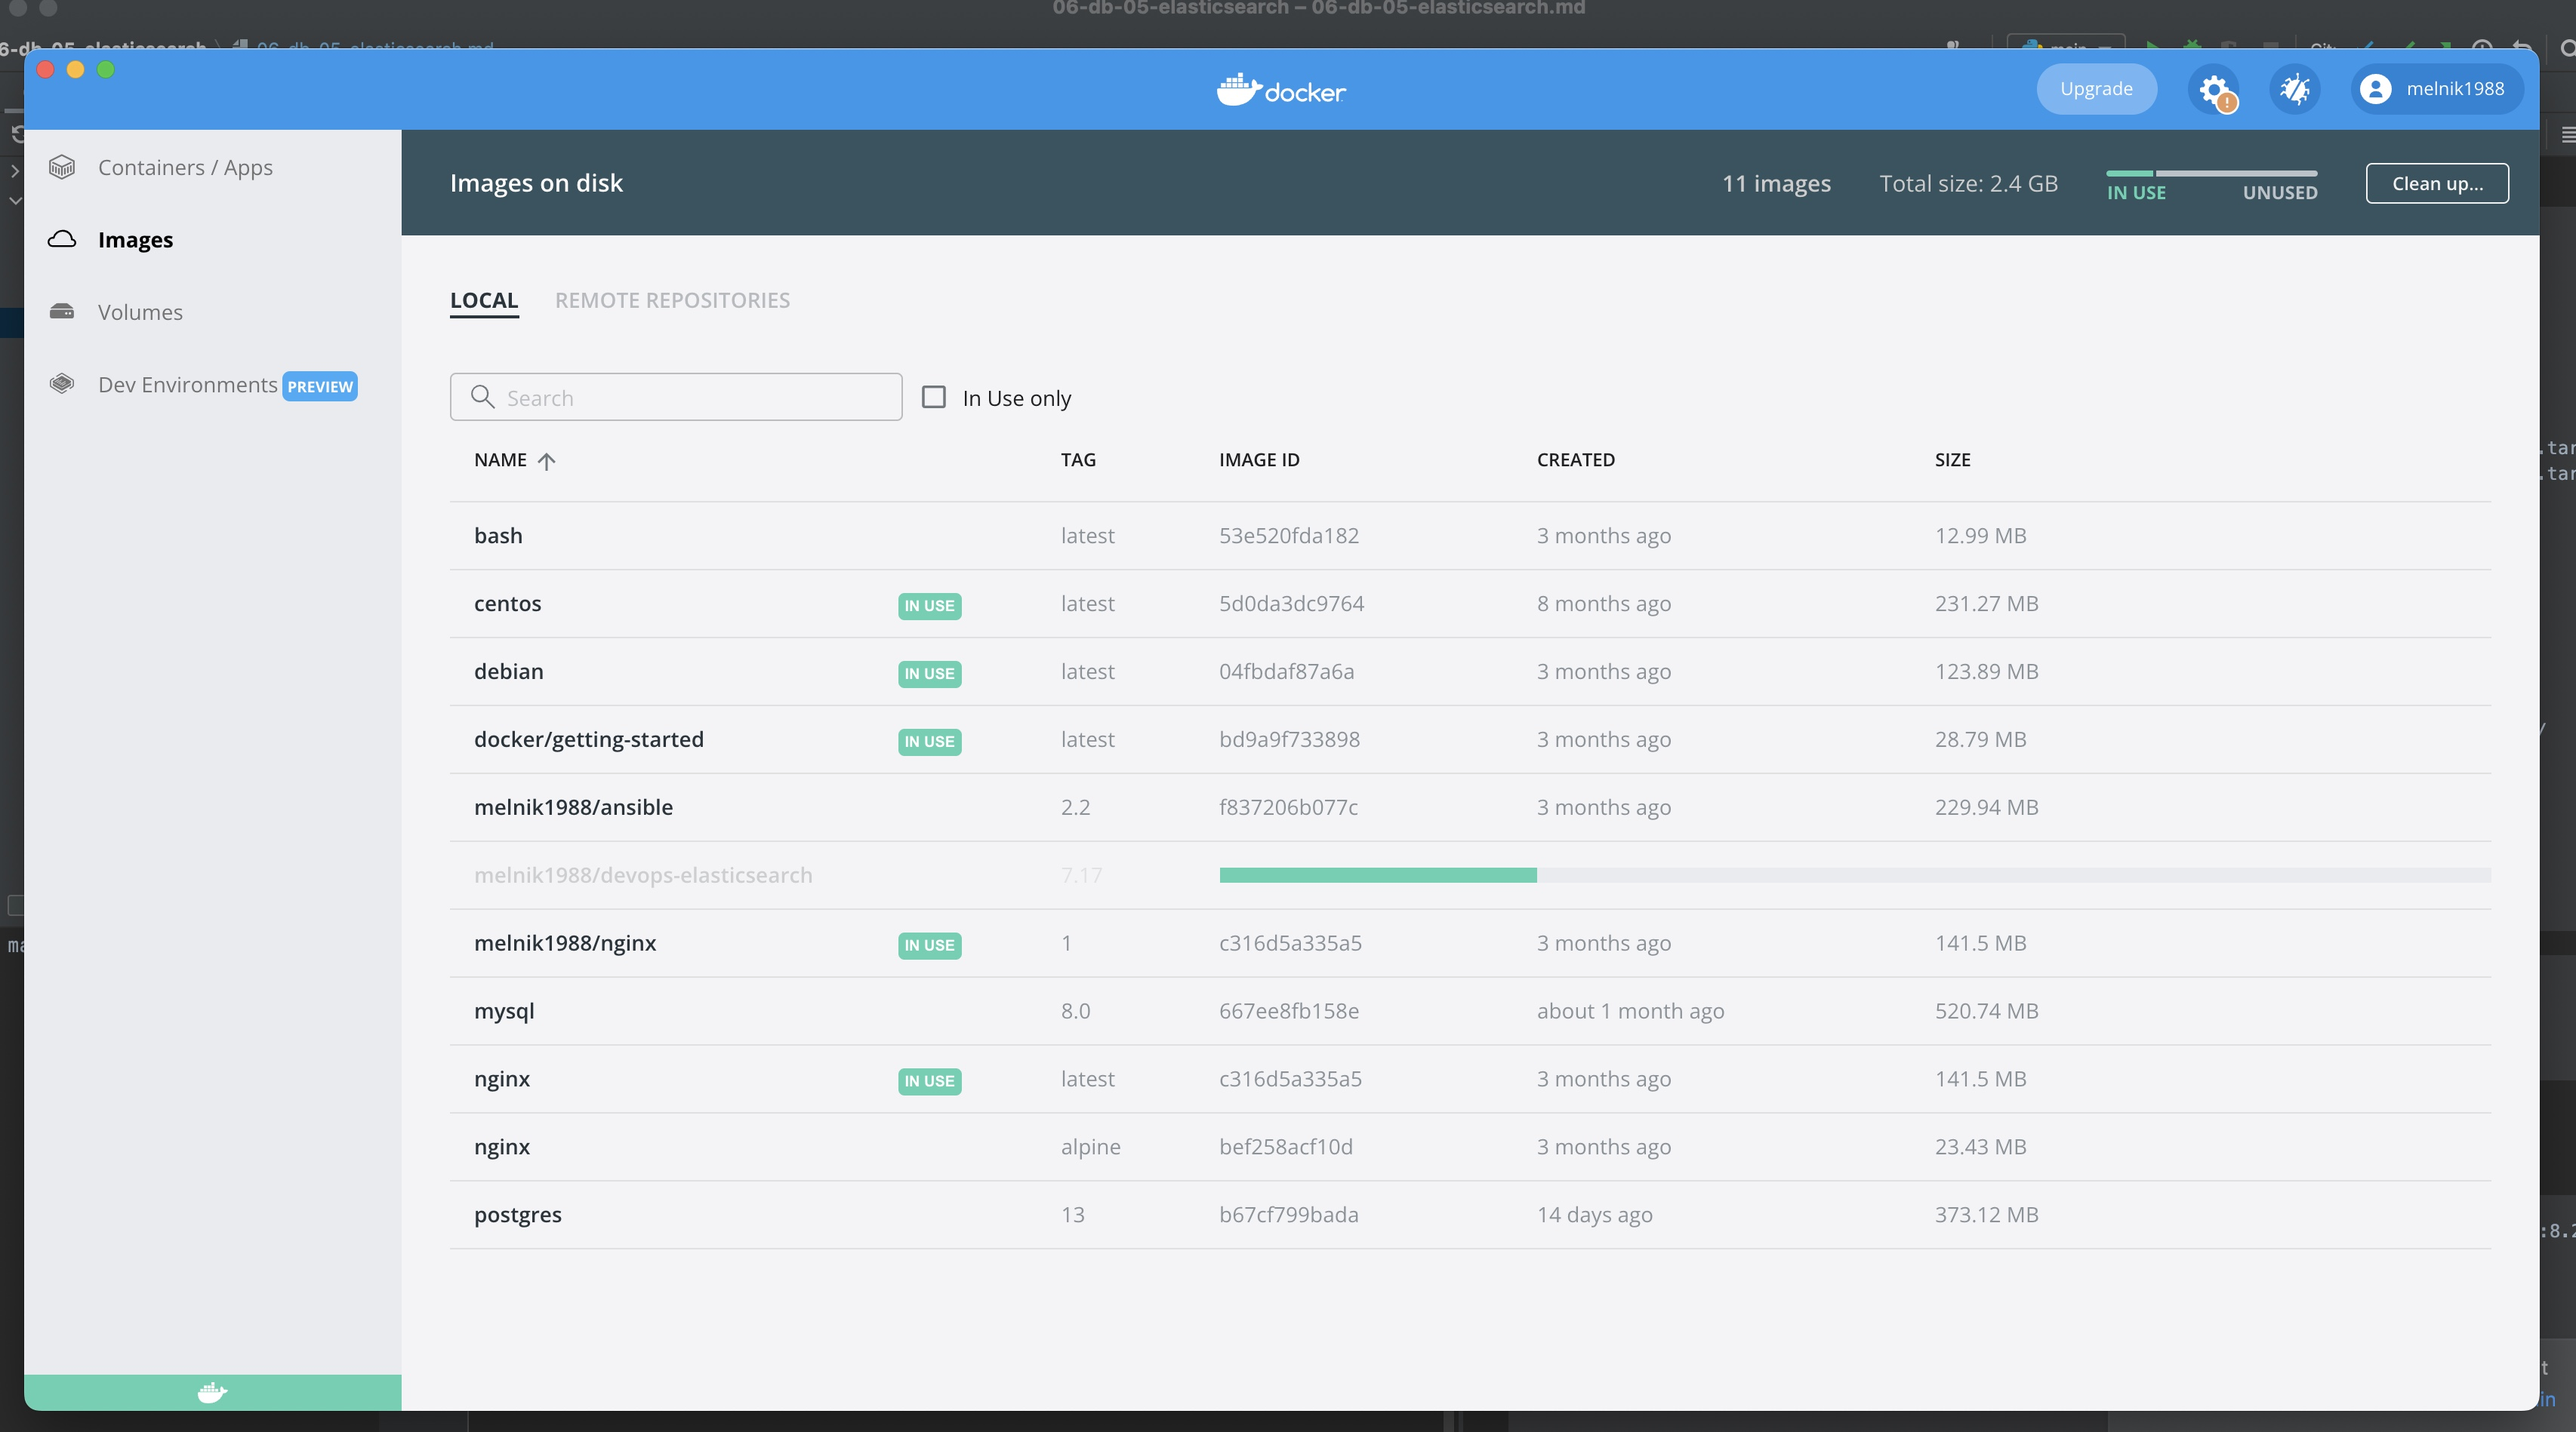
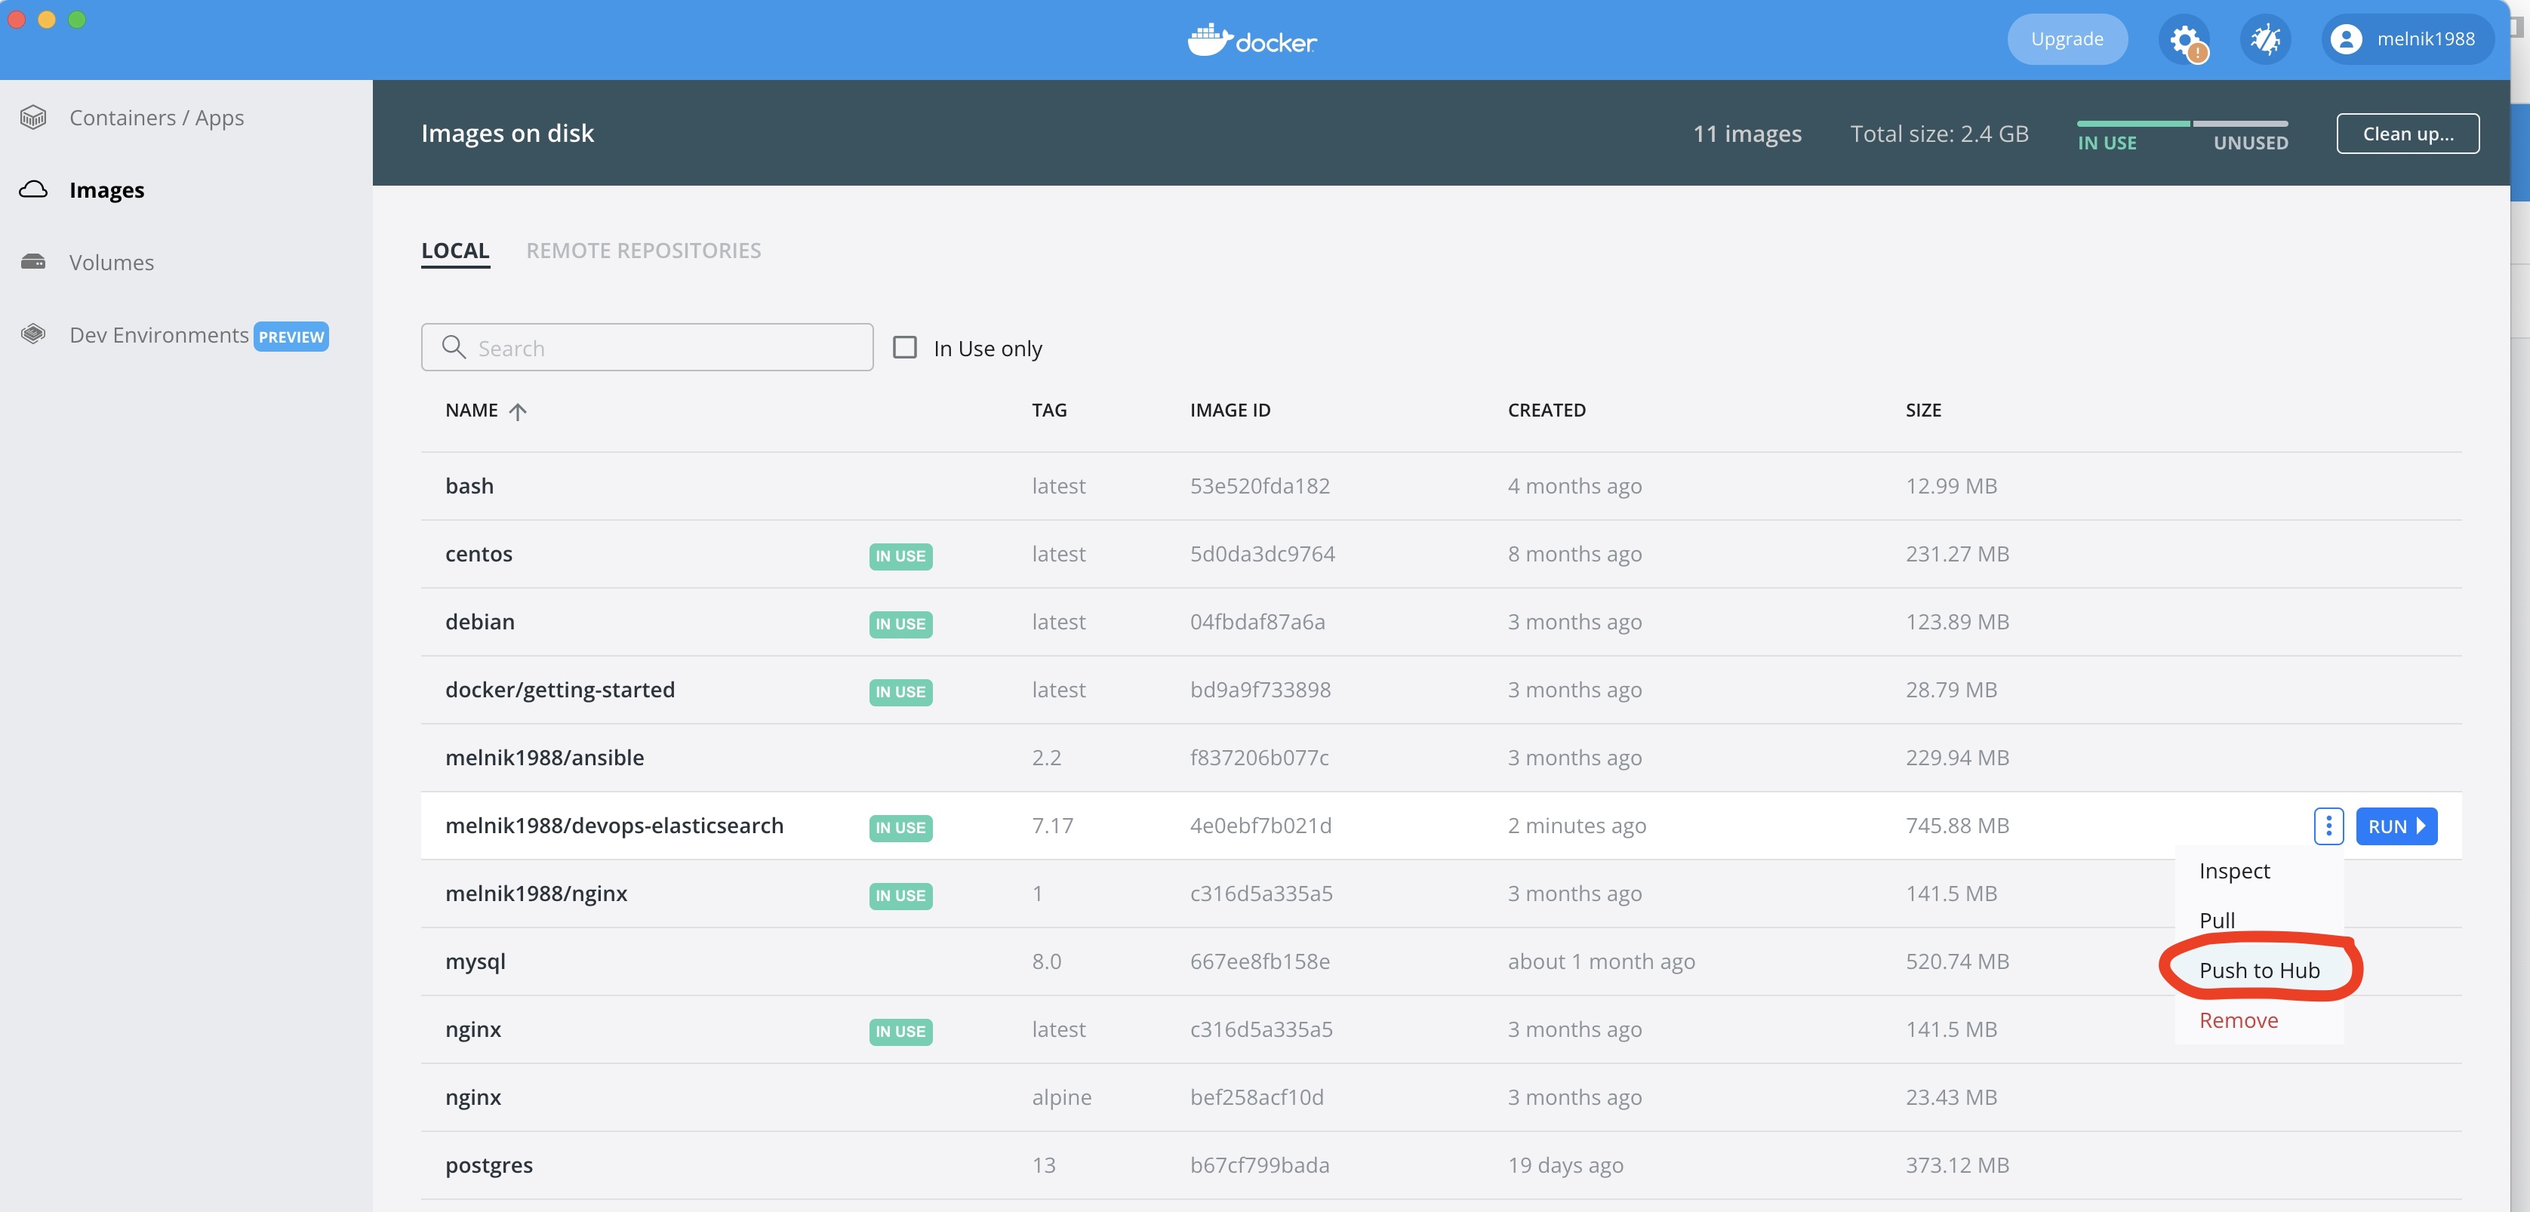
master

diff --git a/06-db-05-elasticsearch.md b/06-db-05-elasticsearch.md
@@ -34,18 +34,20 @@ CMD ["sh", "-c", "${ES_HOME}/bin/elasticsearch"]
 ```
 ```bash
 docker build . -t melnik1988/devops-elasticsearch:7.17
-Push to Hub
-
-docker push melnik1988/devops-elasticsearch:7.17
 ```
+Push to Hub
+![](https://github.com/melnik-evgeniy/06-db-05-elasticsearch/blob/831196642b149009e163cefd49c345573078af68/1.jpg?raw=true)
+
 - ссылку на образ в репозитории dockerhub
-https://hub.docker.com/repository/docker/melnik1988/
+https://hub.docker.com/repository/docker/melnik1988/devops-elasticsearch
 - ответ `elasticsearch` на запрос пути `/` в json виде
 ```bash
-$ docker run --rm -d --name elastic -p 9200:9200 -p 9300:9300 melnik1988/devops-elasticsearch:8.2.0
+$ docker run --rm -d --name elastic -p 9200:9200 -p 9300:9300 melnik1988/devops-elasticsearch:7.17
 $ docker ps
+```
+![](https://github.com/melnik-evgeniy/06-db-05-elasticsearch/blob/831196642b149009e163cefd49c345573078af68/1.jpg?raw=true)
 
-
+```bash
 $ curl -X GET 'localhost:9200/'
 ```
 ```json
